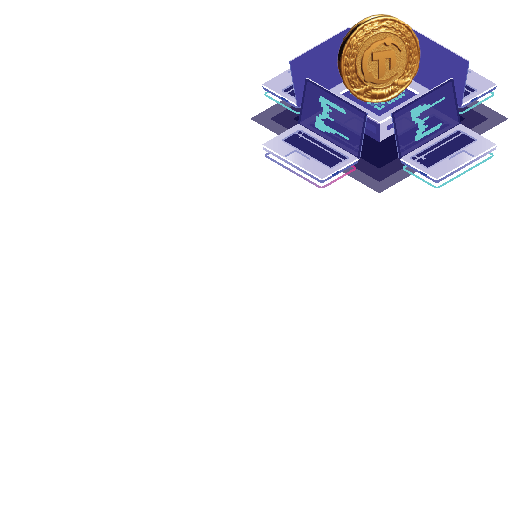
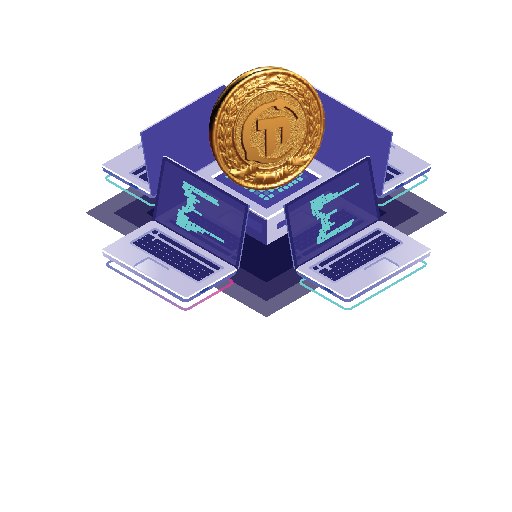
change imgaes

Changed region(s): [[0.1562, 0.0312, 1.0, 0.625]]

diff --git a/src/views/Home/components/SalesSection/data.ts b/src/views/Home/components/SalesSection/data.ts
@@ -41,9 +41,9 @@ export const earnSectionData: SalesSectionProps = {
   images: {
     path: '/images/home/trade/',
     attributes: [
-      { src: 'BNB', alt: 'BNB token' },
+      //{ src: 'BNB', alt: 'BNB token' },
       // { src: 'BTC', alt: 'BTC token' },
-      // { src: 'CAKE', alt: 'CAKE token' },
+       { src: 'TP', alt: 'TP token' },
     ],
   },
 }
